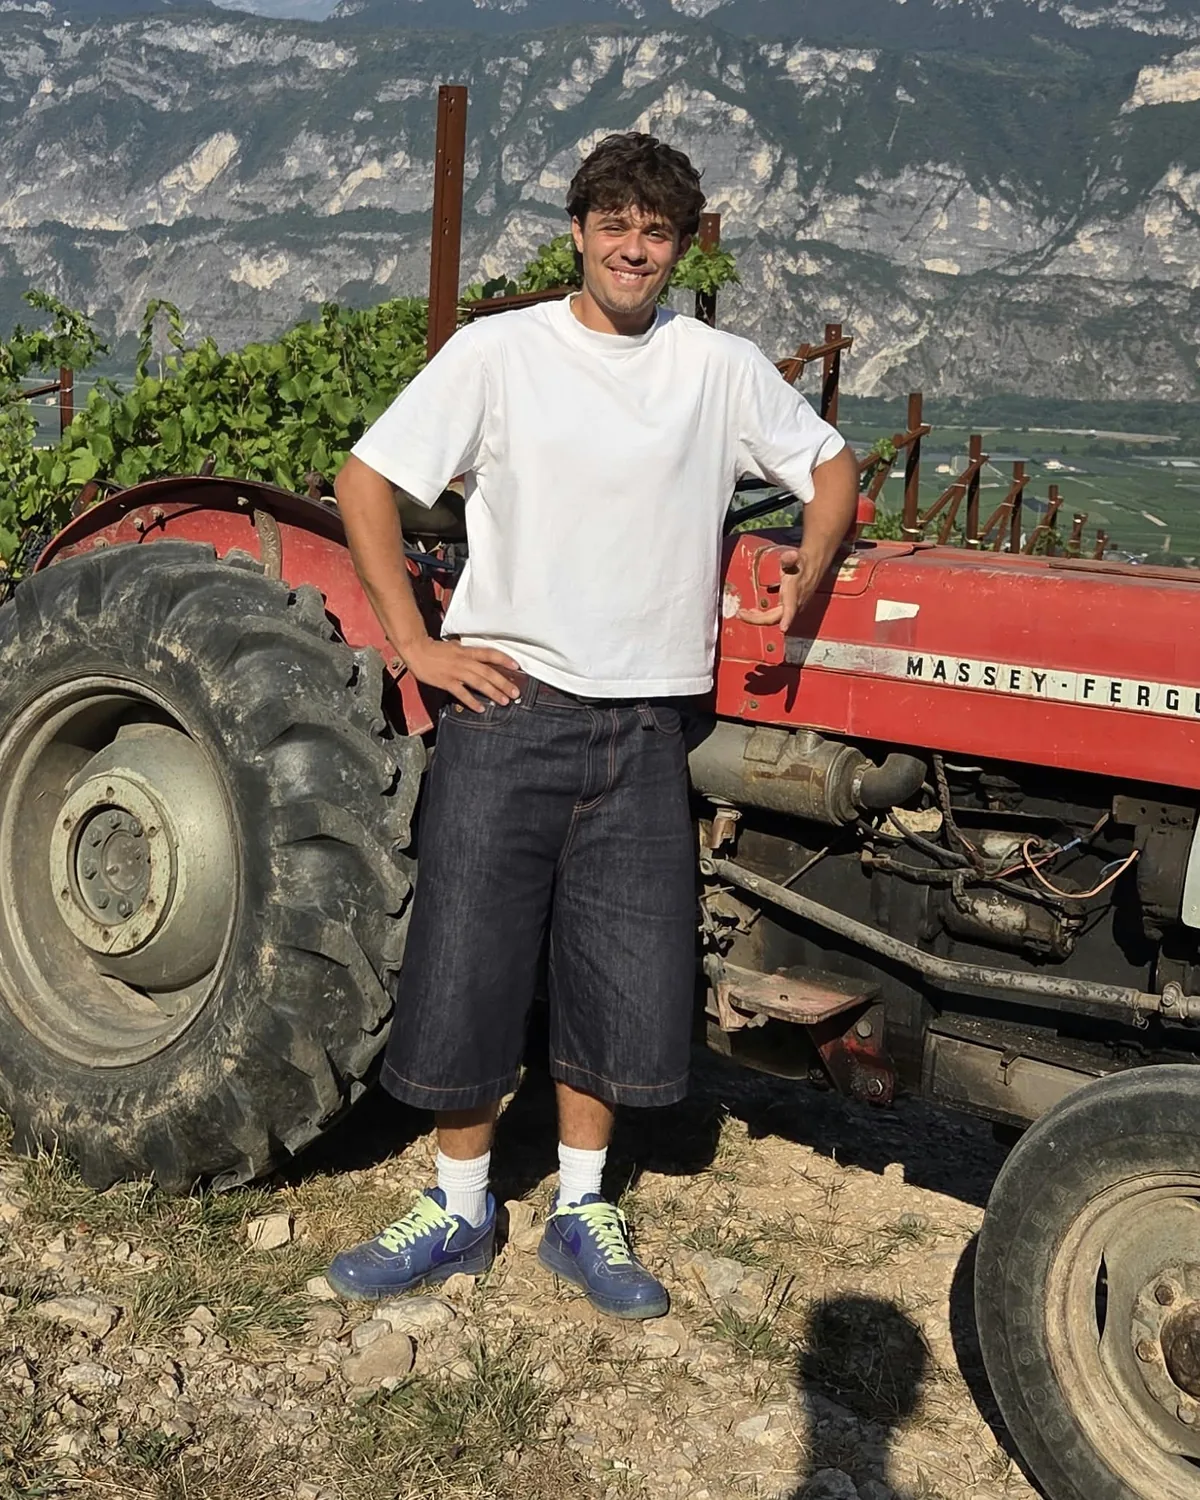
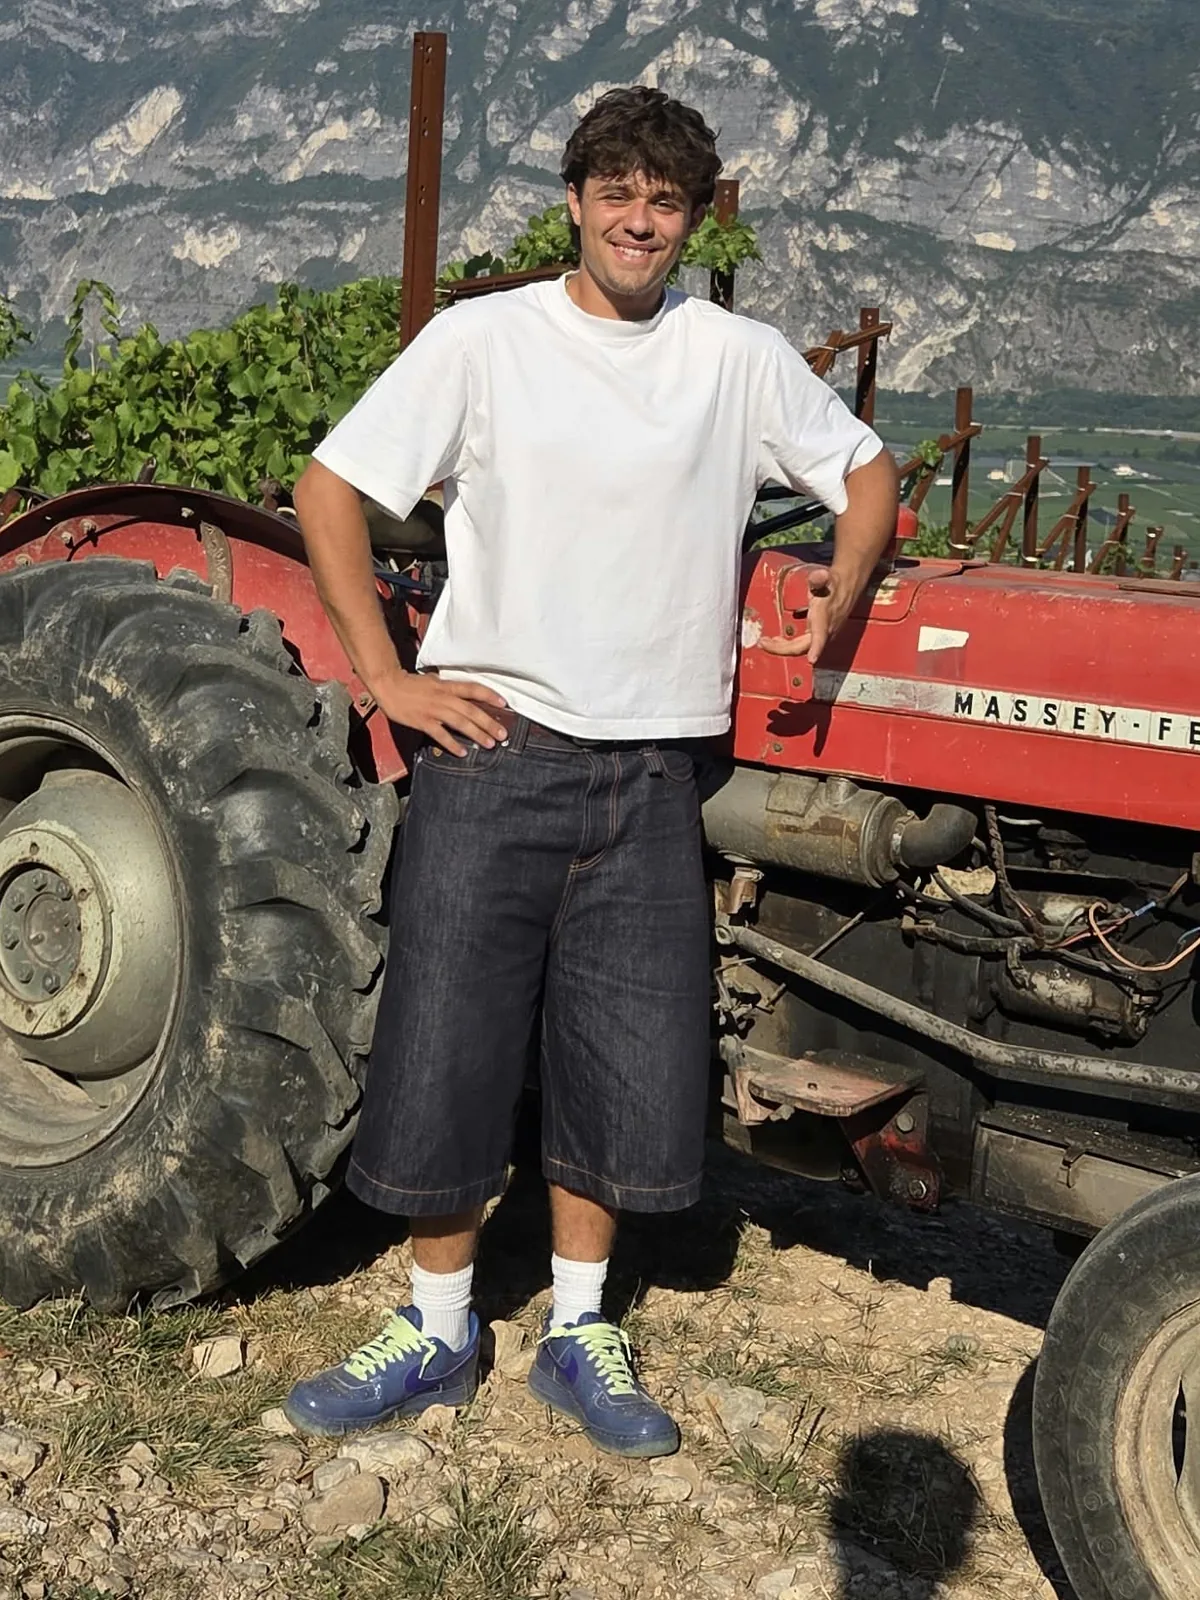
Scheda e storia del San Florian, ritratti in 3/4
- Scheda tecnica: alcol 12% vol., suolo limoso e porfirico.
- Note di degustazione e "Da dove tutto è partito" con i testi definitivi
  (al posto del lorem ipsum): le prime vinificazioni a 16 anni, l'origine
  del nome dai quattro vigneti di Valternigo sotto la chiesetta di San
  Floriano, l'etichetta di Mirco Giovannini e Pierluigi Cambrini.
- Ritratti: la pagina /chi-siamo passa a 3/4 come le schede in home, e i
  due file sono rigenerati in quel formato (1200×1600). In 4/5 Davide non
  ci stava — la figura era più alta del massimo ritaglio ricavabile dallo
  scatto e testa e scarpe venivano rifilate; ora è intero con margine, e
  Andrea è ritagliato per stare alla sua stessa scala.

Claude-Session: https://claude.ai/code/session_01PBuKbpBdDwg8tqpT3vk9qz

diff --git a/src/data/content.js b/src/data/content.js
@@ -205,14 +205,14 @@ export const sanFlorian = {
   degustazione: {
     titolo: 'Note di degustazione',
     testo:
-      'Naso aromatico di fiori bianchi, salvia e mela verde; sorso teso, sapido, di montagna.',
+      'Al naso si riscontrano sentori di frutta tropicale, agrumi e fiori bianchi. In bocca si riscontra una spiccata verticalità, supportata da un’adeguata profondità; la sensazione retronasale rispecchia perfettamente i sentori riscontrati al naso.',
   },
   scheda: [
     { label: 'Uvaggio', value: 'Müller Thurgau 100%' },
     { label: 'Zona', value: 'Giovo, Val di Cembra' },
-    { label: 'Suolo', value: 'Porfido' },
+    { label: 'Suolo', value: 'Limoso, porfirico' },
     { label: 'Affinamento', value: 'Acciaio, sui lieviti' },
-    { label: 'Alcol', value: '12,5% vol.' },
+    { label: 'Alcol', value: '12% vol.' },
     { label: 'Servizio', value: '8–10 °C' },
   ],
   chiudi: 'Torna alla cantina',
@@ -242,10 +242,9 @@ export const sanFlorian = {
     hint: 'Scorri per approfondire',
     titolo: 'Da dove tutto è partito',
     paragrafi: [
-      // testo in attesa della storia vera del vino
-      'Lorem ipsum dolor sit amet, consectetur adipiscing elit. Sed do eiusmod tempor incididunt ut labore et dolore magna aliqua. Ut enim ad minim veniam, quis nostrud exercitation ullamco laboris nisi ut aliquip ex ea commodo consequat.',
-      'Duis aute irure dolor in reprehenderit in voluptate velit esse cillum dolore eu fugiat nulla pariatur. Excepteur sint occaecat cupidatat non proident, sunt in culpa qui officia deserunt mollit anim id est laborum.',
-      'Sed ut perspiciatis unde omnis iste natus error sit voluptatem accusantium doloremque laudantium, totam rem aperiam, eaque ipsa quae ab illo inventore veritatis et quasi architecto beatae vitae dicta sunt explicabo.',
+      'All’età di 16 anni iniziano le nostre prime prove di vinificazione, con piccoli quantitativi di uva “rubati” al nonno. Dopo sei vendemmie, affinata la tecnica e incoraggiati da molti amici, abbiamo deciso di fare sul serio, utilizzando per la prima volta delle uve prodotte da noi.',
+      'Il nome San Florian nasce dall’idea di trovare un filo conduttore per i nostri quattro vigneti di Müller Thurgau, situati attorno all’abitato di Valternigo. Oltre al suolo e alla varietà, l’aspetto comune di questi vigneti è la vista sulla magnifica chiesetta di San Floriano, che sovrasta l’intero comune di Giovo.',
+      'L’etichetta, pensata dal rinomato stilista nonché nostro grande amico Mirco Giovannini e concretizzata dal grafico Pierluigi Cambrini, prende ispirazione proprio dalla chiesetta e dagli elementi caratteristici che la contraddistinguono: mantiene uno stretto legame con la storia del luogo e del territorio, riprendendo al tempo stesso una chiave di modernità e giovinezza.',
     ],
   },
 }

diff --git a/src/pages/ChiSiamo.jsx b/src/pages/ChiSiamo.jsx
@@ -46,7 +46,11 @@ function Ritratto({ persona, immagineASinistra }) {
         {/* Ritaglio pulito, senza bordo/ombra/arrotondamento: stesso stile
             fotografico delle sezioni della home (foto rettangolari a taglio
             netto, la sola tendina di useReveal come trattamento). */}
-        <div className="aspect-[4/5] w-full overflow-hidden">
+        {/* 3/4 come le schede in home: i ritratti sono figure intere in piedi
+            e in 4/5 non ci stavano — al massimo ritaglio ricavabile dallo
+            scatto la persona era più alta del riquadro, e testa e scarpe
+            venivano rifilate. */}
+        <div className="aspect-[3/4] w-full overflow-hidden">
           <img
             data-reveal-img
             src={persona.image.src}
@@ -54,7 +58,7 @@ function Ritratto({ persona, immagineASinistra }) {
             loading="lazy"
             decoding="async"
             width="1200"
-            height="1500"
+            height="1600"
             className="h-full w-full object-cover"
           />
         </div>

diff --git a/src/components/ChiSiamo.jsx b/src/components/ChiSiamo.jsx
@@ -46,8 +46,8 @@ export default function ChiSiamo() {
                   alt={person.image.alt}
                   loading="lazy"
                   decoding="async"
-                  width="720"
-                  height="960"
+                  width="1200"
+                  height="1600"
                   className="h-full w-full object-cover"
                 />
               </div>
